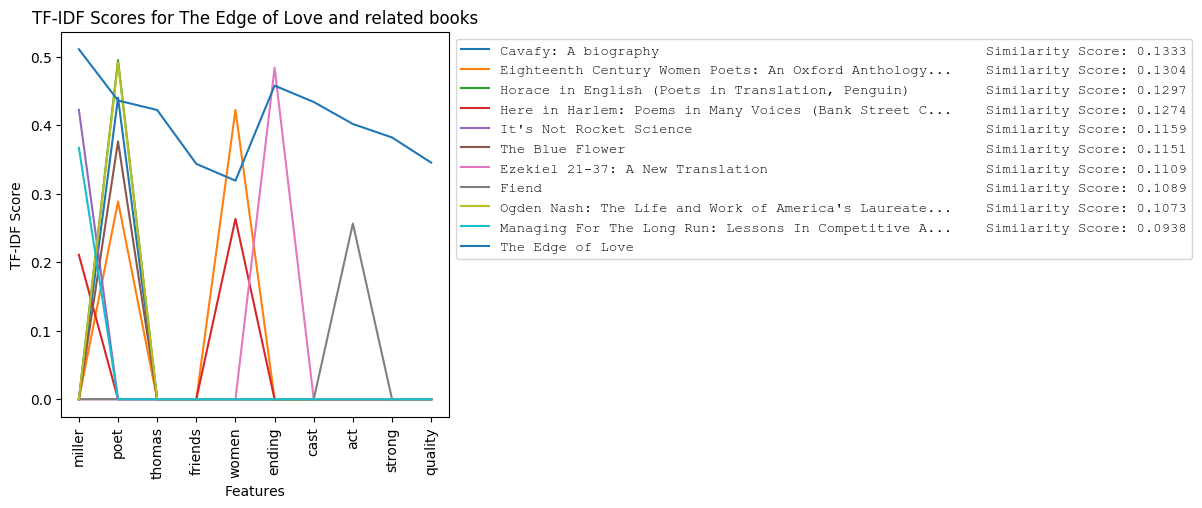
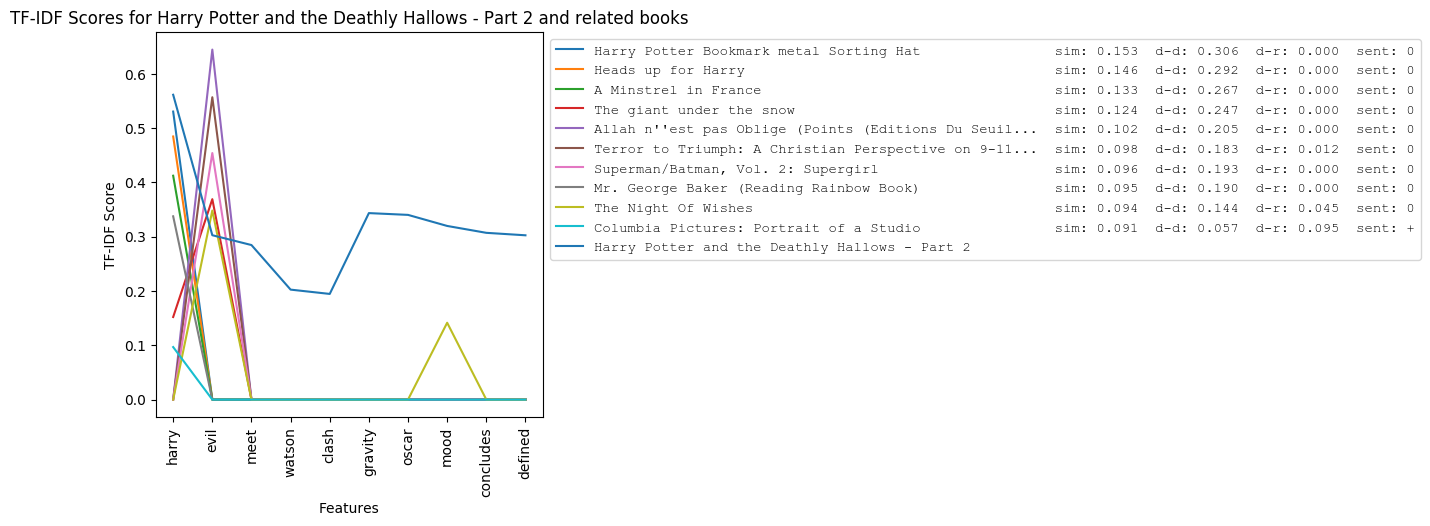
Added data to graph

diff --git a/backend/app.py b/backend/app.py
@@ -30,7 +30,6 @@ import matplotlib.pyplot as plt
 matplotlib.use('agg')
 
 
-
 os.environ['ROOT_PATH'] = os.path.abspath(os.path.join("..", os.curdir))
 
 MOVIES_CSV_PATH = os.path.join(
@@ -159,9 +158,12 @@ def cosine_sim_w_sent(movie_title, book_description, movie_reviews, movie_descri
     top_indices = combined_sent.argsort()[0][-10:][::-1]
     top_books = [list(book_description.keys())[i] for i in top_indices]
     top_scores = {}
+    dd = {}
+    rd = {}
     for i, index in enumerate(top_indices):
         top_scores[top_books[i]] = combined_sent[0][index]
-    print(top_scores)
+        dd[top_books[i]] = similarity_scores[0][index]
+        rd[top_books[i]] = similarity_scores_sec[0][index]
 
     # Top 5 features between mov descript and book descript
     feature_names = vectorizer.get_feature_names()
@@ -186,7 +188,8 @@ def cosine_sim_w_sent(movie_title, book_description, movie_reviews, movie_descri
         book_scores[book] = [book_vector.toarray()[0][vectorizer.vocabulary_[feat]]
                              for feat, score in features]
 
-    plot(book_scores, movie_title, features, top_scores)
+    plot(book_scores, movie_title, features,
+         top_scores, dd, rd, book_review_sents)
     # # plot movie description and review vector scores
     # ax.plot(features, movie_desc_vector.toarray()[0][vectorizer.vocabulary_[feat]] for feat in movie_desc_features)
     # ax.plot(features, movie_review_vector.toarray()[0][vectorizer.vocabulary_[feat]] for feat in movie_review_features)
@@ -197,29 +200,41 @@ def cosine_sim_w_sent(movie_title, book_description, movie_reviews, movie_descri
     return out
 
 
+def get_sent(num):
+    num = num[0]
+    if num == 1.2:
+        return "+"
+    if num == 1.0:
+        return "0"
+    if num == 0.8:
+        return "-"
+    else:
+        return "0"
+
+
 @ app.route("/")
 def home():
     return render_template('base.html', title="sample html")
 
 
 @app.route('/plot')
-def plot(book_scores, movie_title, top_features, top_scores):
+def plot(book_scores, movie_title, top_features, top_scores, dd, rd, book_review_sents):
     fig, ax = plt.subplots(figsize=(5, 5))  # Adjust the size of the figure
     fig.patch.set_facecolor('#808080')
     max_len = 0
     for i, tup in enumerate(list(book_scores.items())):
         book, scores = tup
         max_len = max(max_len, len(book))
-
-    if max_len > 50:
-        max_len = 53
+    bound = 50
+    if max_len > bound:
+        max_len = bound + 3
     for i, tup in enumerate(list(book_scores.items())):
         book, scores = tup
         new_book = book
-        if len(book) > 50:
-            new_book = book[:51] + "..."
+        if len(book) > 49:
+            new_book = book[:50] + "..."
         line = ax.plot(
-            scores, label=f"{new_book}" + " " * (max_len - len(new_book) + 5) + f"Similarity Score: {round(top_scores[book], 4)}")
+            scores, label=f"{new_book}" + " " * (max_len - len(new_book) + 2) + f"sim: {top_scores[book]:.3f}  d-d: {dd[book]:.3f}  d-r: {rd[book]:.3f}  sent: {get_sent(book_review_sents.get(book, [1]))}")
 
     features = [feat for feat, val in top_features]
     feature_vals = [val for feat, val in top_features]
